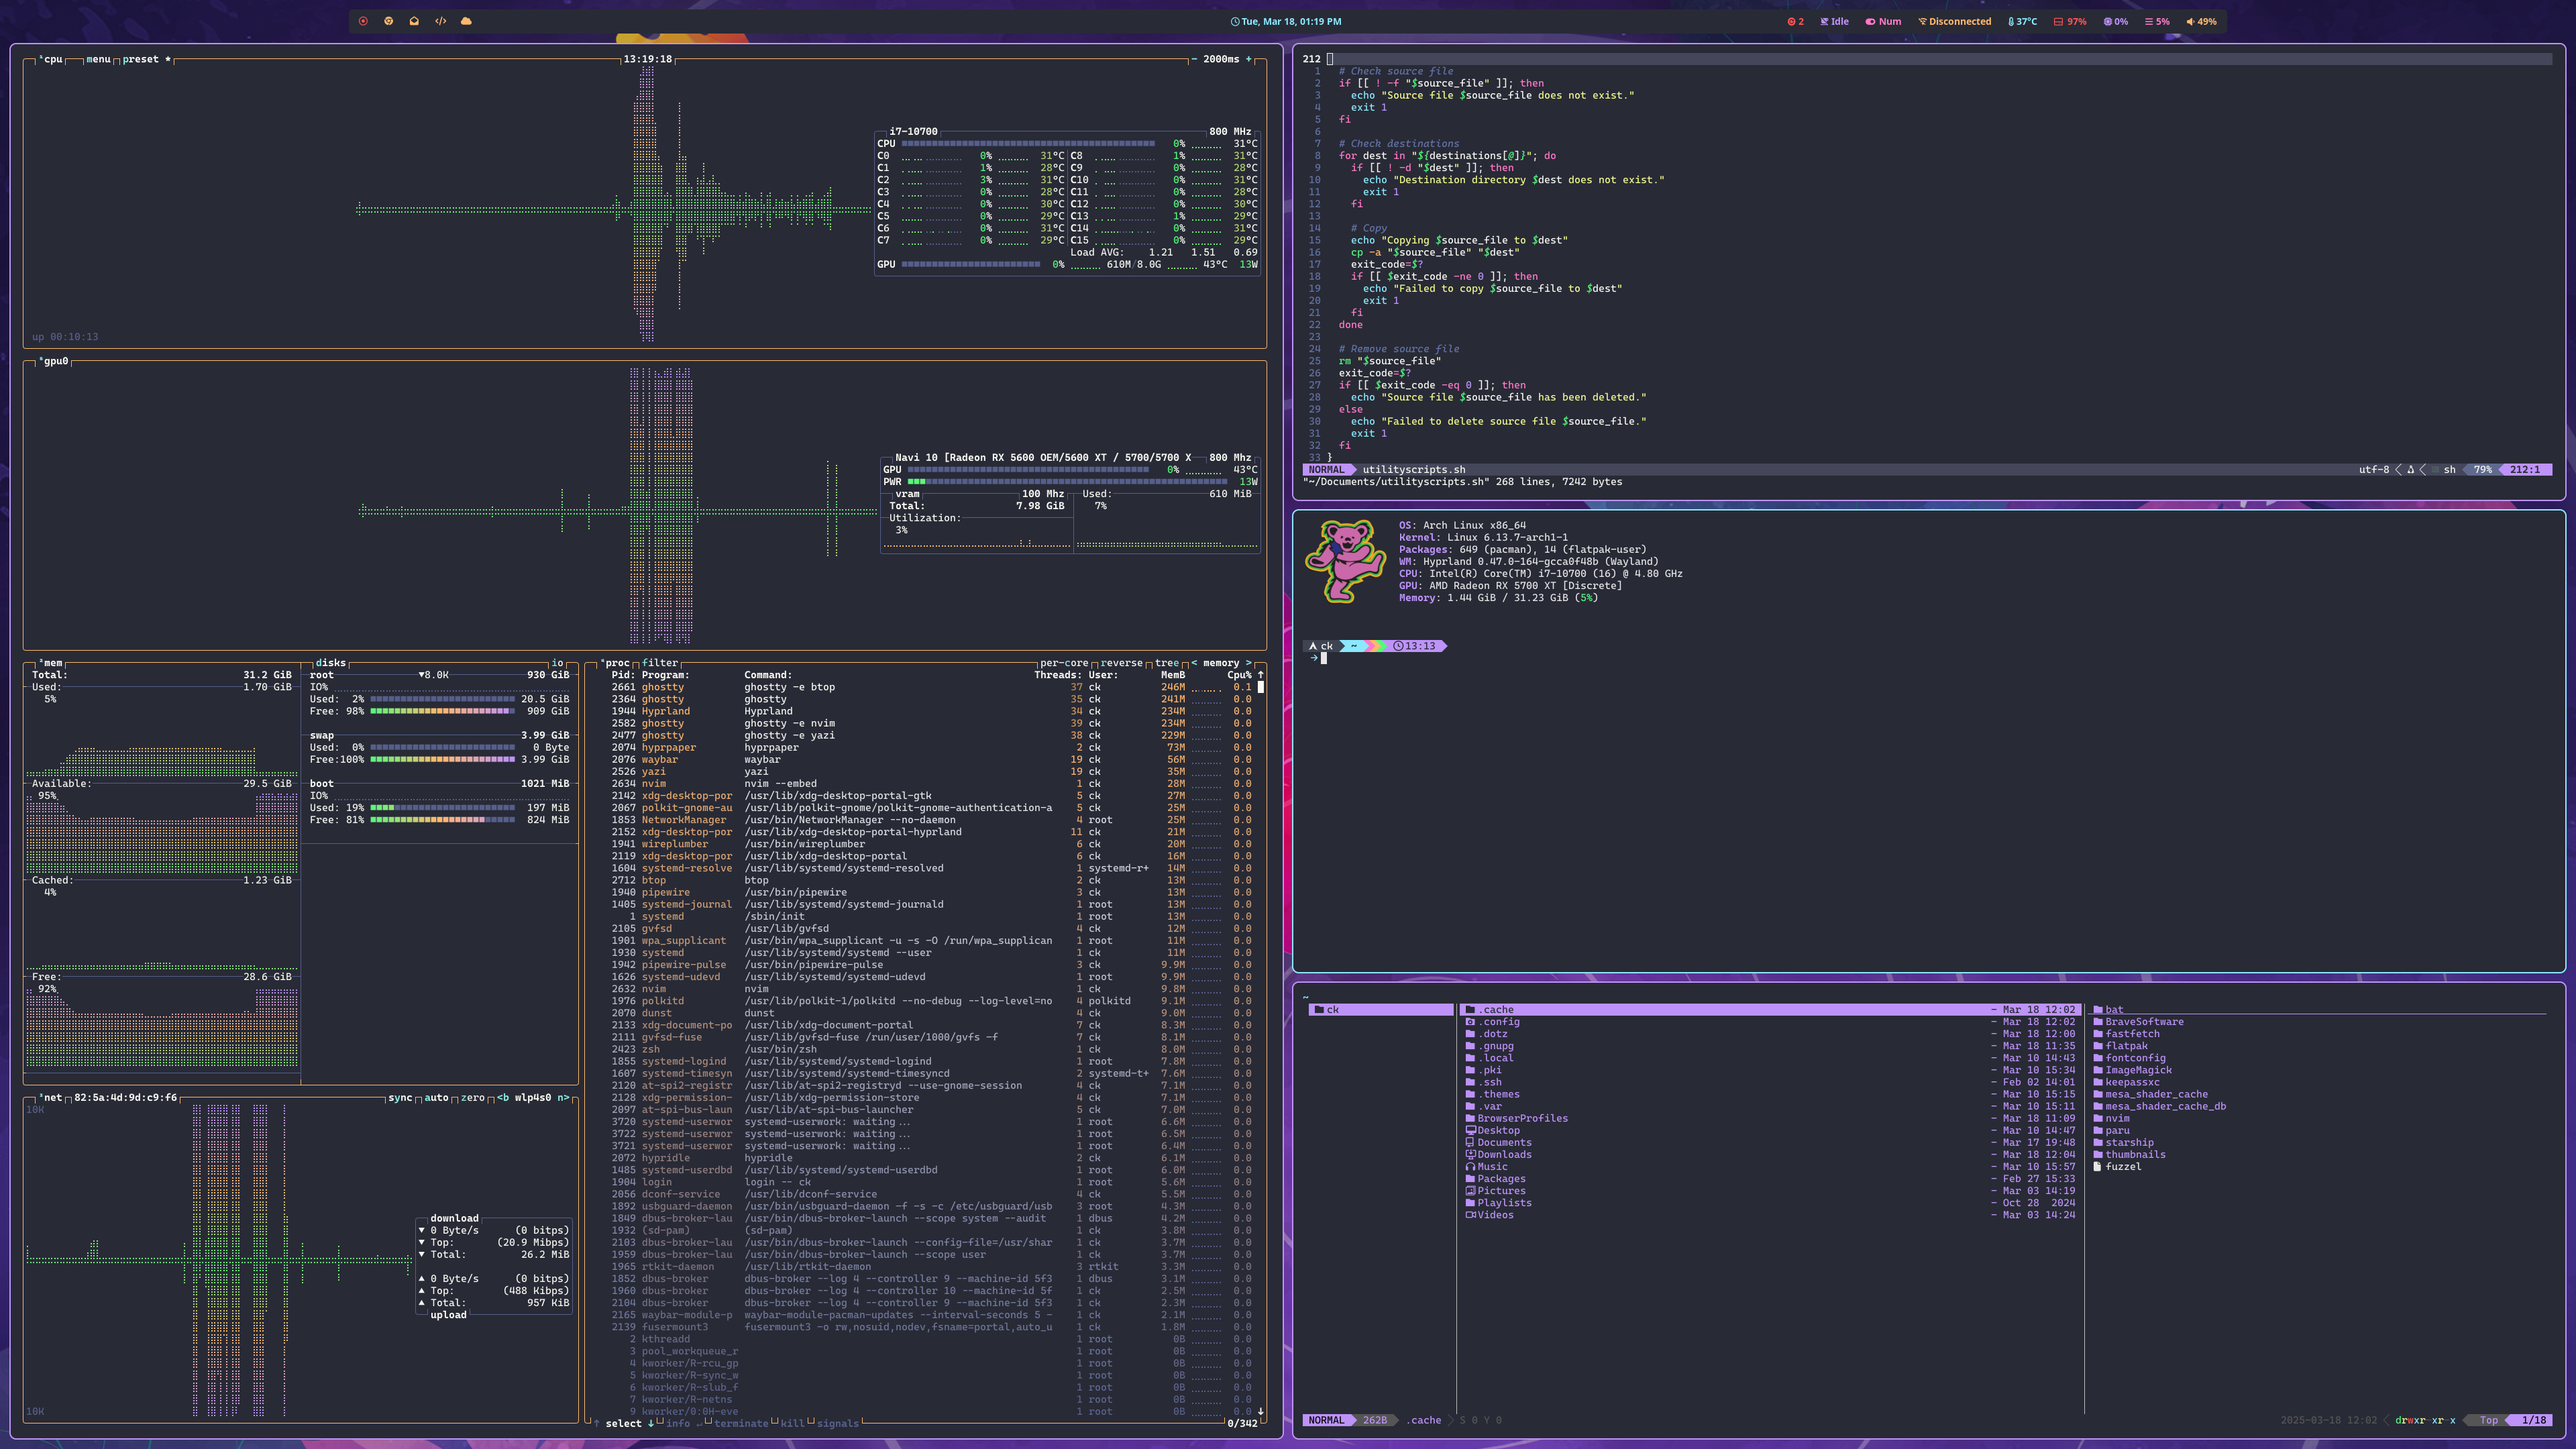
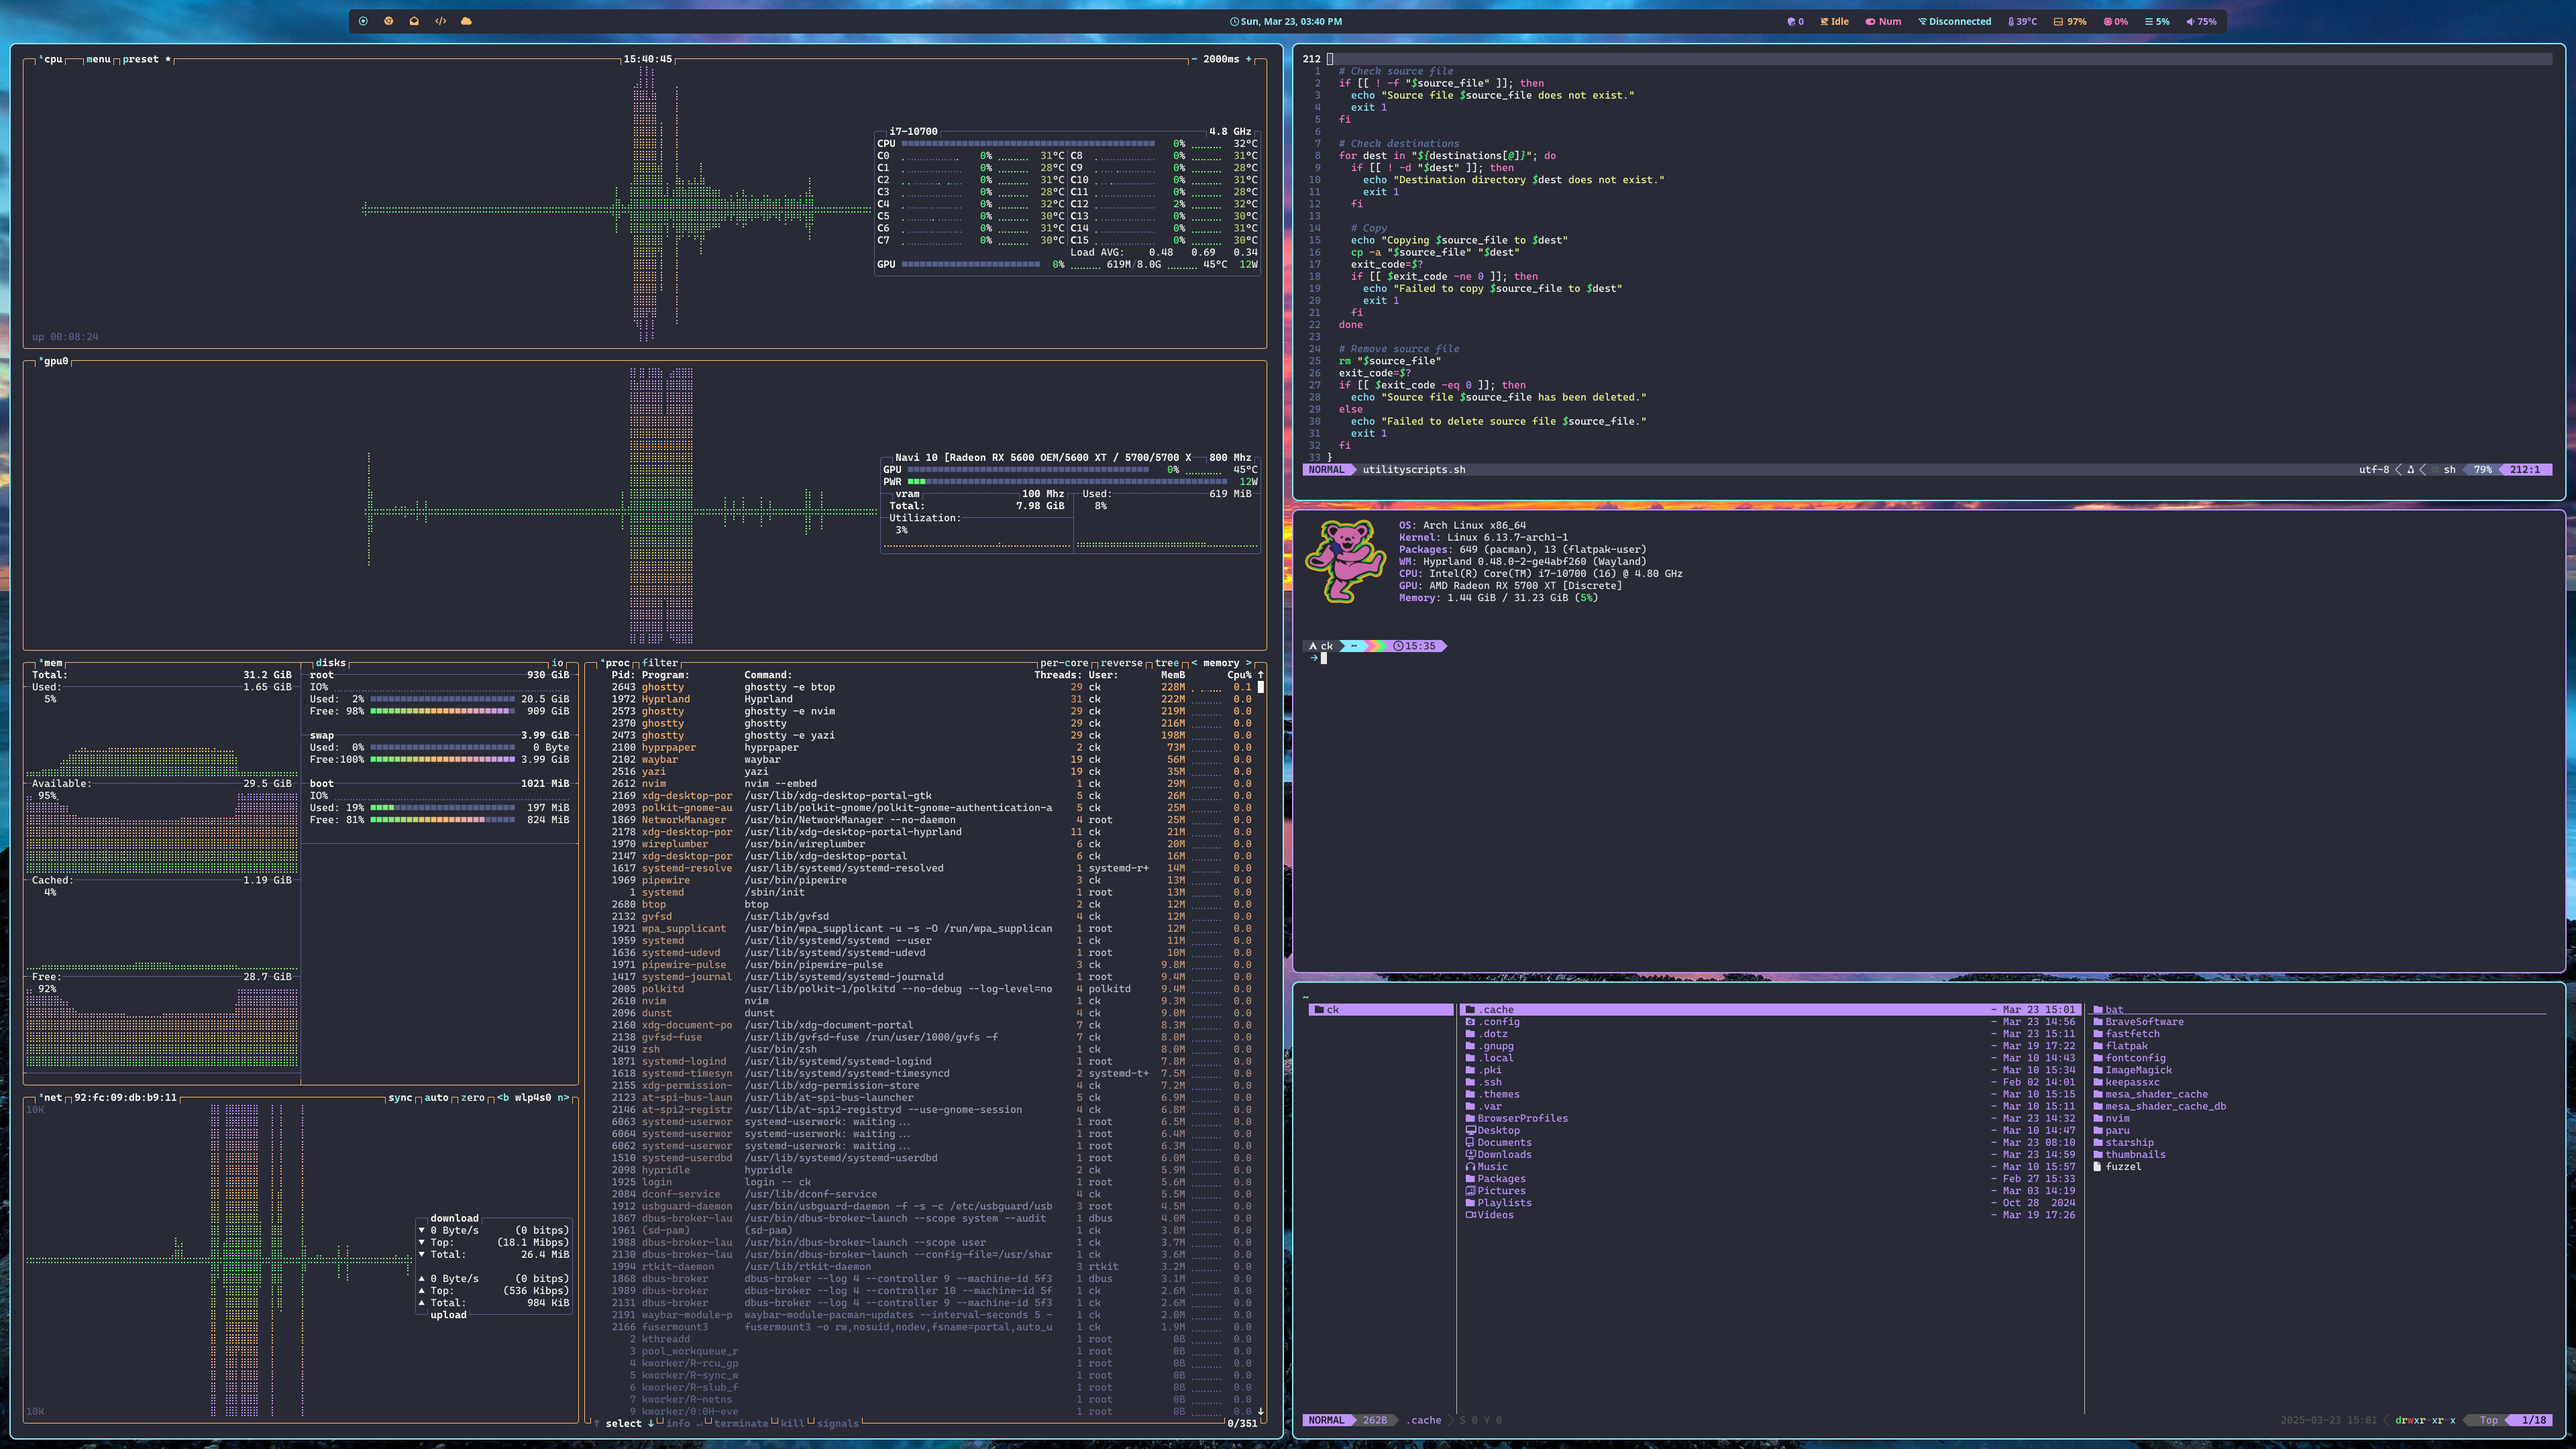
mod wallpaper

diff --git a/.config/waybar/style.css b/.config/waybar/style.css
@@ -29,7 +29,7 @@ tooltip label {
 }
 
 #workspaces button.active {
-  color: #ff5555;
+  color: #8be9fd;
 }
 
 #workspaces button.empty {
@@ -45,7 +45,7 @@ tooltip label {
 }
 
 #workspaces button.urgent {
-  background-color: #ff5555;
+  background-color: #ff79c6;
   color: #282a36;
 }
 
@@ -68,11 +68,11 @@ tooltip label {
 }
 
 #custom-updates {
-  color: #ff5555;
+  color:#bd93f9;
 }
 
 #idle_inhibitor {
-  color: #bd93f9;
+  color: #ffb86c;
 }
 
 #keyboard-state {
@@ -80,25 +80,25 @@ tooltip label {
 }
 
 #network {
-  color: #ffb86c;
-}
-
-#temperature {
   color: #8be9fd;
 }
 
-#disk {
-  color: #ff5555;
-}
-
-#cpu {
+#temperature {
   color: #bd93f9;
 }
 
-#memory {
+#disk {
+  color: #ffb86c;
+}
+
+#cpu {
   color: #ff79c6;
 }
 
+#memory {
+  color: #8be9fd;
+}
+
 #pulseaudio {
-  color: #ffb86c;
+  color: #bd93f9;
 }
